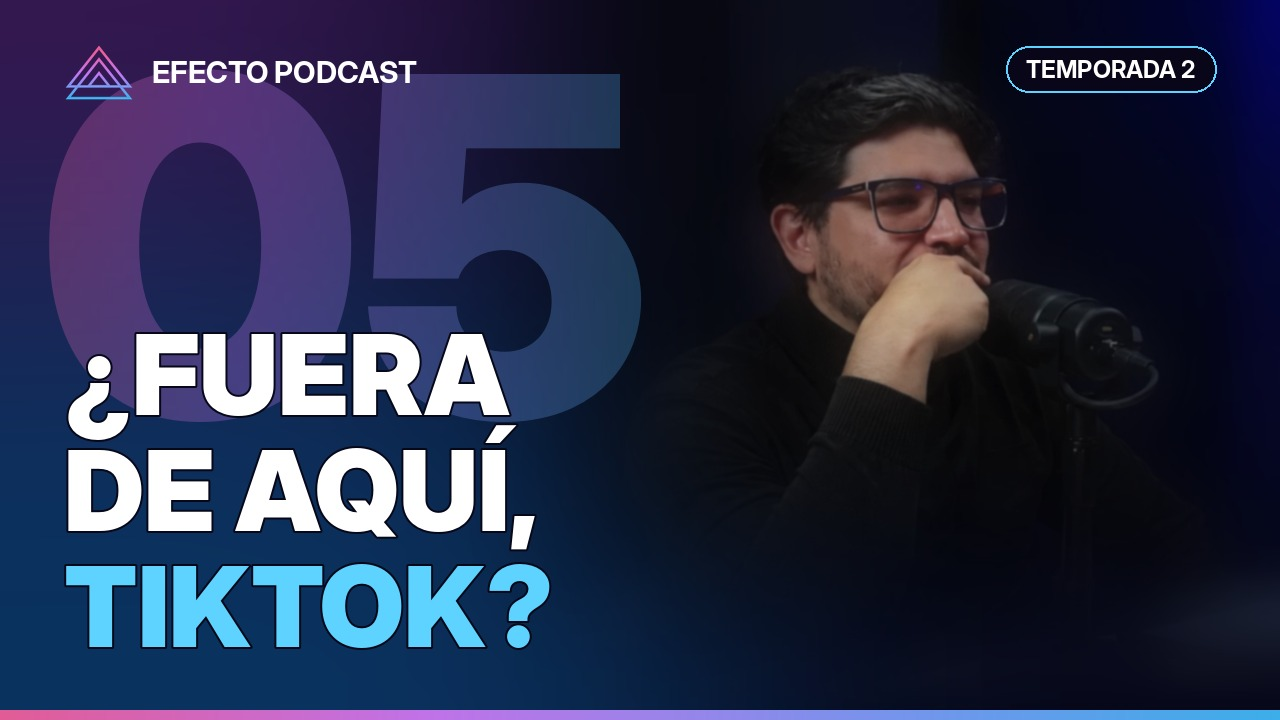
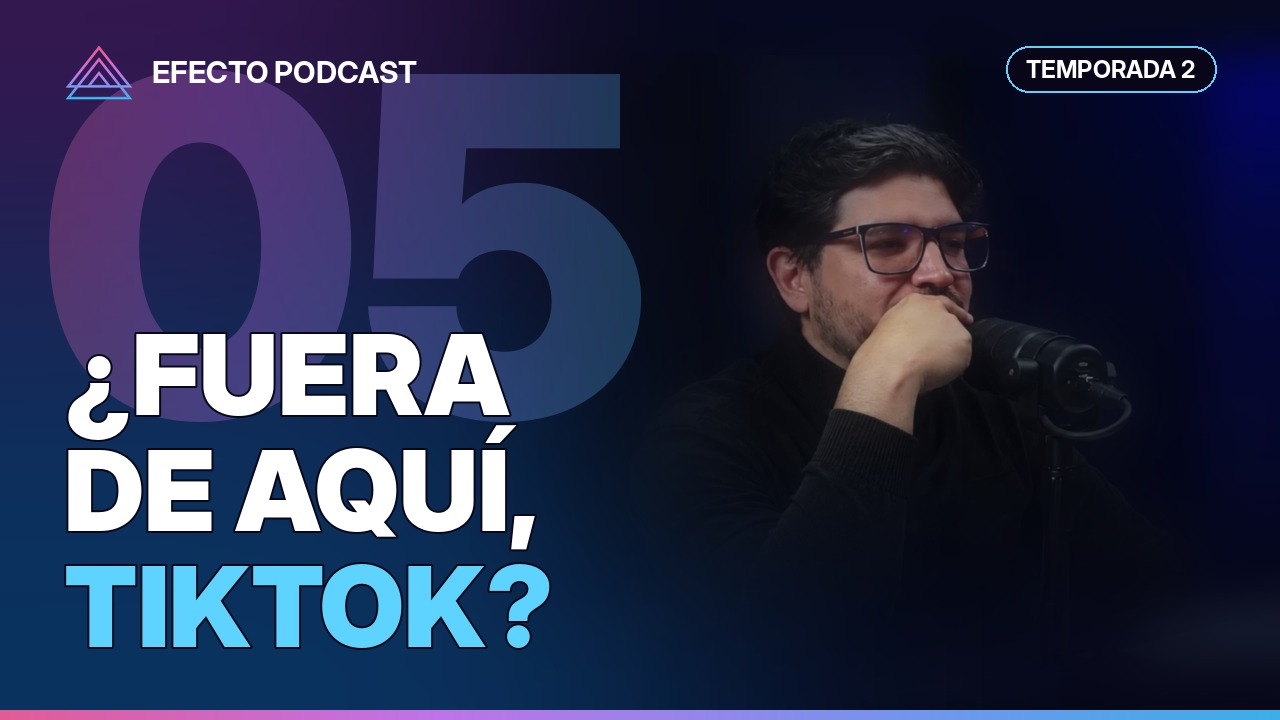
Miniaturas T2: caras del mismo tamaño y altura (detección de rostros) y gradación de color común
Claude-Session: https://claude.ai/code/session_01FaEEkiVM4pJ5ydfrxSsrku

diff --git a/scripts/miniaturas.py b/scripts/miniaturas.py
@@ -210,6 +210,38 @@ GUEST_FRAMES = {
 }
 
 
+# Caras que el detector no encuentra: (centro x, centro y, tamaño) en píxeles de la foto original.
+FACE_OVERRIDES = {
+    "felipe-chaleco.jpg": (520, 290, 170),
+    "felipe-cuello-alto-negro.jpg": (640, 260, 215),
+    "felipe-sueter-burdeo.jpg": (560, 290, 200),
+    "estudio-dario-poblete.jpg": (648, 138, 165),
+}
+
+
+def find_face(path, pic):
+    """Centro y tamaño de la cara más grande de la foto (con OpenCV), o el valor fijado a mano."""
+    if path.name in FACE_OVERRIDES:
+        return FACE_OVERRIDES[path.name]
+    import cv2
+    import numpy as np
+    gray = cv2.cvtColor(np.array(pic), cv2.COLOR_RGB2GRAY)
+    cascade = cv2.CascadeClassifier(cv2.data.haarcascades + "haarcascade_frontalface_default.xml")
+    found = cascade.detectMultiScale(gray, 1.08, 5, minSize=(60, 60))
+    if not len(found):
+        raise SystemExit(f"No encontré la cara en {path.name}: agrégala a FACE_OVERRIDES")
+    x, y, w, h = max(found, key=lambda r: r[2] * r[3])
+    return x + w / 2, y + h / 2, w
+
+
+def grade(im):
+    """Misma gradación para todas las fotos: algo de contraste y un tinte azul del estudio."""
+    from PIL import ImageEnhance
+    im = ImageEnhance.Contrast(im).enhance(1.06)
+    tint = Image.new("RGB", im.size, (20, 40, 95))
+    return Image.blend(im, tint, 0.08)
+
+
 def enhance(im):
     """Mejora un cuadro de video comprimido: nitidez, contraste y color."""
     from PIL import ImageEnhance
@@ -256,45 +288,45 @@ def render_t2(vid, number, text, photo, guest, logo):
     d.ellipse((-200, -380, 520, 260), fill=(55, 22, 80))
     img = glow.filter(ImageFilter.GaussianBlur(160))
 
-    # Foto a la derecha, nítida en la persona y difuminada hacia la izquierda y abajo.
-    pic = Image.open(PHOTOS / f"felipe-{photo}.jpg").convert("RGB")
-    scale = H * 1.08 / pic.height
-    pic = pic.resize((round(pic.width * scale), round(pic.height * scale)), Image.LANCZOS)
-    fx, fy = FACES[photo]
+    # Personas: cada foto se escala según el tamaño de la cara, para que todas queden iguales.
     duo = guest in GUEST_FRAMES
-    target = 0.57 if duo else 0.72
-    ox = round(target * W - fx * pic.width) if duo else max(round(target * W - fx * pic.width), W - pic.width)
-    oy = min(0, max(round(0.40 * H - fy * pic.height), H - pic.height))
-    layer = Image.new("RGB", (W, H), (6, 8, 26))
-    layer.paste(pic, (ox, oy))
-    faces = [(ox + fx * pic.width, oy + fy * pic.height)]
+    people = [(PHOTOS / f"felipe-{photo}.jpg", (0.57 if duo else 0.71) * W)]
     if duo:
-        # El invitado, desde un cuadro real del episodio, a la derecha; se funde con Felipe al centro.
-        name, gx, gy, gscale = GUEST_FRAMES[guest]
-        frame = enhance(Image.open(PHOTOS / "invitados" / f"estudio-{name}.jpg").convert("RGB"))
-        k = H * gscale / frame.height
-        frame = frame.resize((round(frame.width * k), round(frame.height * k)), Image.LANCZOS)
-        gox = round(0.83 * W - gx * frame.width)
-        goy = round(0.40 * H - gy * frame.height)
-        glayer = Image.new("RGB", (W, H), (6, 8, 26))
-        glayer.paste(frame, (gox, goy))
-        seam = np.clip((np.linspace(0, 1, W) - 0.70) / 0.07, 0, 1)
-        seam = seam * seam * (3 - 2 * seam)
-        layer = Image.composite(glayer, layer, Image.fromarray((np.tile(seam, (H, 1)) * 255).astype("uint8")))
-        faces.append((gox + gx * frame.width, goy + gy * frame.height))
+        people.append((PHOTOS / "invitados" / f"estudio-{GUEST_FRAMES[guest][0]}.jpg", 0.835 * W))
+    face_px = 150 if duo else 175
+    layer = Image.new("RGB", (W, H), (6, 8, 26))
+    faces = []
+    for i, (path, tx) in enumerate(people):
+        pic = Image.open(path).convert("RGB")
+        if i:
+            pic = enhance(pic)
+        cx, cy, size = find_face(path, pic)
+        k = face_px / size
+        pic = pic.resize((round(pic.width * k), round(pic.height * k)), Image.LANCZOS)
+        ox, oy = round(tx - cx * k), round(0.37 * H - cy * k)
+        part = Image.new("RGB", (W, H), (6, 8, 26))
+        part.paste(pic, (ox, oy))
+        if i == 0:
+            layer = part
+        else:
+            seam = np.clip((np.linspace(0, 1, W) - 0.69) / 0.07, 0, 1)
+            seam = seam * seam * (3 - 2 * seam)
+            layer = Image.composite(part, layer, Image.fromarray((np.tile(seam, (H, 1)) * 255).astype("uint8")))
+        faces.append((tx, 0.37 * H))
+    layer = grade(layer)
     sharp = Image.new("L", (W, H), 0)
     for face in faces:
-        ImageDraw.Draw(sharp).ellipse((face[0] - 200, face[1] - 230, face[0] + 200, face[1] + 380), fill=255)
-    sharp = sharp.filter(ImageFilter.GaussianBlur(130))
-    layer = Image.composite(layer.filter(ImageFilter.GaussianBlur(1)), layer.filter(ImageFilter.GaussianBlur(26)), sharp)
+        ImageDraw.Draw(sharp).ellipse((face[0] - 190, face[1] - 210, face[0] + 190, face[1] + 360), fill=255)
+    sharp = sharp.filter(ImageFilter.GaussianBlur(120))
+    layer = Image.composite(layer.filter(ImageFilter.GaussianBlur(0.6)), layer.filter(ImageFilter.GaussianBlur(24)), sharp)
 
     def smooth(t):
         t = np.clip(t, 0, 1)
         return t * t * (3 - 2 * t)
     x = np.linspace(0, 1, W)
     y = np.linspace(0, 1, H)
-    start = 0.24 if duo else 0.34
-    alpha = np.outer(smooth((1 - y) / 0.42), smooth((x - start) / 0.28)) * 0.92
+    start = 0.26 if duo else 0.34
+    alpha = np.outer(smooth((1 - y) / 0.42), smooth((x - start) / 0.28)) * 0.94
     img = Image.composite(layer, img, Image.fromarray((alpha * 255).astype("uint8")))
 
     # Número de episodio gigante, con el degradado de la marca y transparente.
